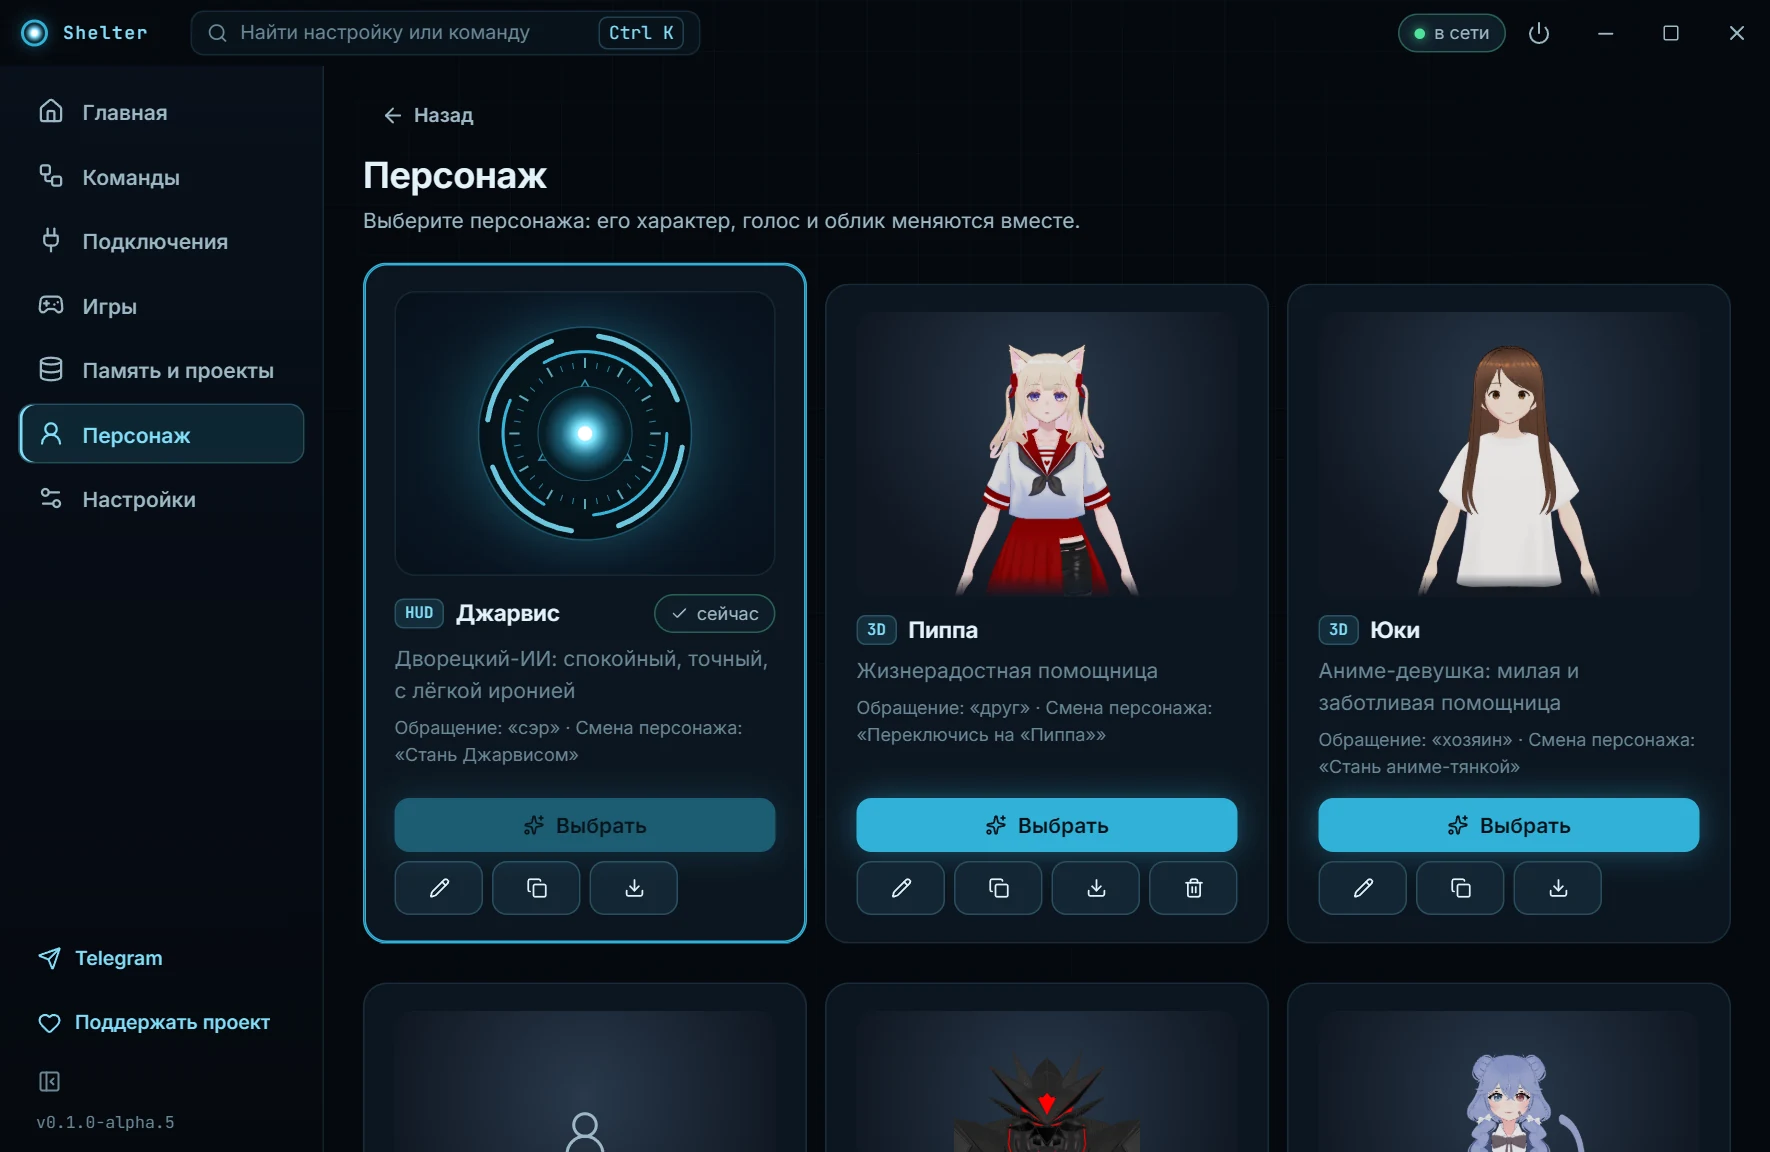
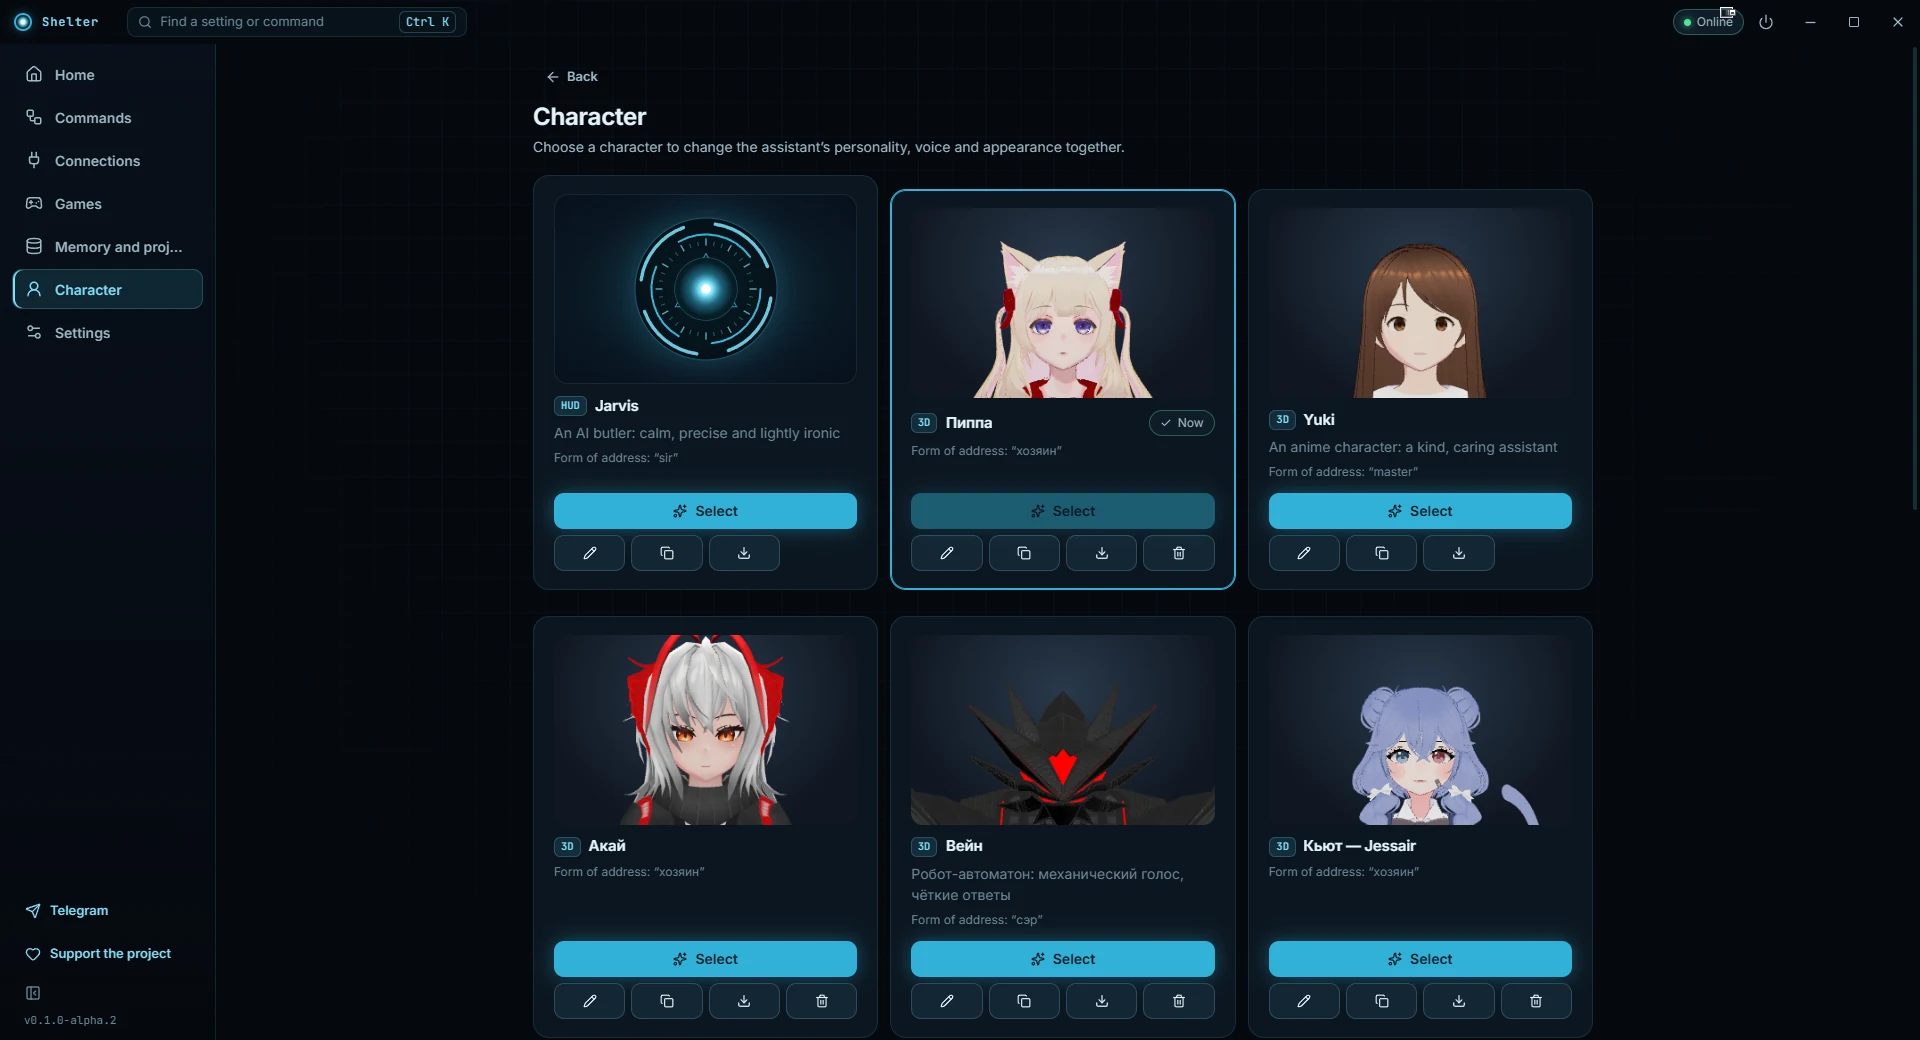
Add direct downloads and complete the character catalog

diff --git a/app/src/components/AvatarPortrait.svelte b/app/src/components/AvatarPortrait.svelte
@@ -32,7 +32,6 @@
 <style>
   .portrait { position: relative; height: 190px; display: grid; place-items: center; overflow: hidden; border-radius: 12px;
     background: radial-gradient(ellipse at 50% 30%, #29394b, #101722 75%); margin-bottom: 6px; }
-  img { width: 100%; height: 100%; min-height: 0; padding: 8px 12px 0; object-fit: contain; object-position: center bottom;
-    mask-image: linear-gradient(to bottom, #000 92%, transparent 100%); }
+  img { position: absolute; inset: 0; width: 100%; height: 100%; object-fit: cover; object-position: center top; }
   .placeholder { display: grid; justify-items: center; gap: 8px; padding: 12px; color: var(--text-2); text-align: center; font-size: 12px; }
 </style>

diff --git a/app/src/lib/version.ts b/app/src/lib/version.ts
@@ -1,1 +1,1 @@
-export const APP_VERSION = "0.1.0-alpha.5";
+export const APP_VERSION = "0.1.0-alpha.6";

diff --git a/tests/test_public_export.py b/tests/test_public_export.py
@@ -55,6 +55,17 @@ class PublicExport(unittest.TestCase):
                              {target / "personas" / persona_id / "appearance.vrm" for persona_id in module.PUBLIC_MODELS})
             self.assertTrue((target / "personas/jarvis/voice.wav").is_file())
             self.assertFalse(any((target / "personas").rglob("*.safetensors")))
+            bundle = json.loads((target / "app/src-tauri/tauri.conf.json").read_text(encoding="utf-8"))
+            resources = set(bundle["bundle"]["resources"].values())
+            for persona_id in (item for item in module.PUBLIC_PRESETS if item != "jarvis"):
+                with self.subTest(portrait=persona_id):
+                    folder = target / "personas" / persona_id
+                    profile = json.loads((folder / "persona.json").read_text(encoding="utf-8"))
+                    self.assertEqual(profile["avatar"]["preview"], "preview.png")
+                    self.assertGreater((folder / "preview.png").stat().st_size, 0)
+                    self.assertIn(f"core/personas/{persona_id}/preview.png", resources)
+            for name in ("windows", "linux", "android", "android-local"):
+                self.assertTrue((target / "docs/media" / f"download-{name}.png").is_file())
             for preset in (target / "personas").glob("*/persona.json"):
                 voice = json.loads(preset.read_text(encoding="utf8")).get("voice", {})
                 self.assertEqual(voice.get("reference"), "voice.wav" if preset.parent.name == "anime" else None)

diff --git a/tools/export_public.py b/tools/export_public.py
@@ -15,7 +15,8 @@ DOC_LOCALES = ("ru", "ja", "zh-CN")
 TRANSLATED_DOCS = ("README.md", "GUIDE.md", "CONTRIBUTING.md", "SECURITY.md", "THIRD_PARTY.md")
 ROOT_FILES = {"README.md","LICENSE","SECURITY.md","CONTRIBUTING.md","THIRD_PARTY.md",".gitignore","config.public.yaml","requirements.txt","requirements-lock.windows.txt","requirements-optional.txt","requirements-tts.txt","app_version.py","main.py","setup_tool.py"}
 DOC_MEDIA = ("shelter-cover-characters.webp", "shelter-desktop.webp", "shelter-personas.webp",
-             "shelter-personas-more.webp", "shelter-android.webp")
+             "shelter-personas-ru.webp", "shelter-personas-more.webp", "shelter-personas-more-ru.webp", "shelter-android.webp",
+             "download-windows.png", "download-linux.png", "download-android.png", "download-android-local.png")
 PUBLIC_PRESETS = ("jarvis", "pippa", "anime", "akai", "vain", "manju", "tsukuyomi", "cute", "yamaneko", "miku")
 # Original synthetic VoiceDesign sample documented in docs/HANDOFF-personas.md.
[1 lines of base64/hex data omitted]

diff --git a/shelter_core/import_avatars.py b/shelter_core/import_avatars.py
@@ -174,8 +174,10 @@ def attach_builtin(persona_id, filename):
         avatar.update(type="vrm", model=str(model))
         with model.open("rb") as file:
             original = hashlib.file_digest(file, "sha256").hexdigest().startswith(profile["id"][9:])
-        if not original or not avatar.get("preview"):
+        if not original:
             avatar.pop("preview", None)
+            avatar.pop("preview_kind", None)
+        if avatar.get("preview_kind") == "illustration" or not avatar.get("preview"):
             portrait = Path(work) / "preview.png"
             try:
                 _thumbnail(model, portrait)
@@ -183,6 +185,7 @@ def attach_builtin(persona_id, filename):
                 pass  # Thumbnail metadata is optional.
             if portrait.is_file():
                 avatar["preview"] = str(portrait)
+                avatar.pop("preview_kind", None)
         with personas._storage_lock:
             return personas.get(profile["id"]) or personas.save(profile)
 

diff --git a/app_version.py b/app_version.py
@@ -1,2 +1,2 @@
 """Product version; independent of scenario/plugin protocol versions."""
-VERSION = "0.1.0-alpha.5"
+VERSION = "0.1.0-alpha.6"

diff --git a/docs/ru/README.md b/docs/ru/README.md
@@ -4,9 +4,18 @@
 
 ![Обложка Shelter с главным окном, Пиппой, Юки, Джарвисом и Мандзю](../media/shelter-cover-characters.webp)
 
+<p align="center">
+  <a href="https://github.com/IT-Shelter-Labs/shelter/releases/download/v0.1.0-alpha.6/Shelter-0.1.0-alpha.6-windows-x64-setup.exe"><img src="../media/download-windows.png" width="190" height="58" alt="Скачать Windows 10/11 x64"></a>
+  <a href="https://github.com/IT-Shelter-Labs/shelter/releases/download/v0.1.0-alpha.6/Shelter-0.1.0-alpha.6-linux-x86_64.tar.gz"><img src="../media/download-linux.png" width="190" height="58" alt="Скачать Linux x86_64"></a>
+  <a href="https://github.com/IT-Shelter-Labs/shelter/releases/download/v0.1.0-alpha.3/Shelter-0.1.0-alpha.3-android-companion-test.apk"><img src="../media/download-android.png" width="190" height="58" alt="Скачать Android Companion APK"></a>
+  <a href="https://github.com/IT-Shelter-Labs/shelter/releases/download/v0.1.0-alpha.3/Shelter-0.1.0-alpha.3-android-local-test.apk"><img src="../media/download-android-local.png" width="190" height="58" alt="Скачать Android Local APK"></a>
+</p>
+
+[Архив игровых модов](https://github.com/IT-Shelter-Labs/shelter/releases/download/v0.1.0-alpha.3/Shelter-0.1.0-alpha.3-game-mods.zip) · [Веса голоса Джарвиса v4](https://github.com/IT-Shelter-Labs/shelter/releases/download/v0.1.0-alpha.5/Shelter-Jarvis-voice-v4.safetensors) · [Все выпуски](https://github.com/IT-Shelter-Labs/shelter/releases)
+
 Голосовой ассистент с открытым исходным кодом для Windows, Linux и Android. Открывайте приложения, управляйте музыкой, ставьте напоминания, запускайте сценарии и разговаривайте с выбранной моделью. На ПК можно произнести по-русски имя выбранного персонажа или нажать «Говорить».
 
-[Скачать](https://github.com/IT-Shelter-Labs/shelter/releases) · [Руководство](GUIDE.md) · [Персонажи](#персонажи) · [Telegram IT Shelter](https://t.me/+tqB8b6h4JbYwZWVi) · [Поддержать проект](https://t.me/itshelter_bot?start=donate)
+[Руководство](GUIDE.md) · [Персонажи](#персонажи) · [Telegram IT Shelter](https://t.me/+tqB8b6h4JbYwZWVi) · [Поддержать проект](https://t.me/itshelter_bot?start=donate)
 
 ## Установка
 
@@ -39,9 +48,11 @@
 
 В настольном Shelter десять пресетов. При первом запуске активен **Джарвис**. Доступны также Пиппа, Юки, Акай, Вейн, Мандзю, Цукуёми, Кьют, Яманэко и Мику. Пресеты меняют имя вызова, голос и характер. Выбор сохраняется после обновления.
 
-![Каталог Shelter: первыми идут Джарвис, Пиппа и Юки](../media/shelter-personas.webp)
+![Каталог Shelter: первыми идут Джарвис, Пиппа и Юки](../media/shelter-personas-ru.webp)
 
-![Другие персонажи Shelter и их портреты](../media/shelter-personas-more.webp)
+![Другие персонажи Shelter и их портреты](../media/shelter-personas-more-ru.webp)
+
+На первом скриншоте показана локальная установка с подключёнными 3D-обликами. У каждого встроенного персонажа есть портрет или реактор Джарвиса.
 
 3D-облики Юки, Вейна, Мандзю и Цукуёми входят в комплект. Оригинальный облик Пиппы можно скачать у автора и подключить с её карточки. На совместимой видеокарте NVIDIA установка фирменного голоса скачивает обученный профиль Джарвиса v4 и использует встроенный образец голоса Юки и Пиппы. [Настройка персонажей](GUIDE.md) · [Авторы и лицензии](THIRD_PARTY.md)
 

diff --git a/docs/ja/README.md b/docs/ja/README.md
@@ -4,9 +4,18 @@
 
 ![デスクトップ画面とピッパ、ユキ、ジャーヴィス、マンジュを描いた Shelter のカバー](../media/shelter-cover-characters.webp)
 
+<p align="center">
+  <a href="https://github.com/IT-Shelter-Labs/shelter/releases/download/v0.1.0-alpha.6/Shelter-0.1.0-alpha.6-windows-x64-setup.exe"><img src="../media/download-windows.png" width="190" height="58" alt="Windows 10/11 x64 をダウンロード"></a>
+  <a href="https://github.com/IT-Shelter-Labs/shelter/releases/download/v0.1.0-alpha.6/Shelter-0.1.0-alpha.6-linux-x86_64.tar.gz"><img src="../media/download-linux.png" width="190" height="58" alt="Linux x86_64 をダウンロード"></a>
+  <a href="https://github.com/IT-Shelter-Labs/shelter/releases/download/v0.1.0-alpha.3/Shelter-0.1.0-alpha.3-android-companion-test.apk"><img src="../media/download-android.png" width="190" height="58" alt="Android Companion APK をダウンロード"></a>
+  <a href="https://github.com/IT-Shelter-Labs/shelter/releases/download/v0.1.0-alpha.3/Shelter-0.1.0-alpha.3-android-local-test.apk"><img src="../media/download-android-local.png" width="190" height="58" alt="Android Local APK をダウンロード"></a>
+</p>
+
+[ゲーム用 MOD の ZIP](https://github.com/IT-Shelter-Labs/shelter/releases/download/v0.1.0-alpha.3/Shelter-0.1.0-alpha.3-game-mods.zip) · [ジャーヴィス v4 の音声モデル](https://github.com/IT-Shelter-Labs/shelter/releases/download/v0.1.0-alpha.5/Shelter-Jarvis-voice-v4.safetensors) · [すべてのリリース](https://github.com/IT-Shelter-Labs/shelter/releases)
+
 Shelter は Windows、Linux、Android 向けのオープンソース音声アシスタントです。アプリの起動、音楽の操作、リマインダーの設定、ワークフローの実行、ローカルモデルやクラウドモデルとの会話ができます。デスクトップでは、選択中のキャラクターの呼びかけ名をロシア語で発音するか、**Speak**（話す）を押します。
 
-[ダウンロード](https://github.com/IT-Shelter-Labs/shelter/releases) · [利用・開発ガイド](GUIDE.md) · [IT Shelter の Telegram](https://t.me/+tqB8b6h4JbYwZWVi) · [プロジェクトを支援](https://t.me/itshelter_bot?start=donate)
+[利用・開発ガイド](GUIDE.md) · [IT Shelter の Telegram](https://t.me/+tqB8b6h4JbYwZWVi) · [プロジェクトを支援](https://t.me/itshelter_bot?start=donate)
 
 ## インストール
 
@@ -38,6 +47,8 @@ Shelter は Windows、Linux、Android 向けのオープンソース音声アシ
 ![ジャーヴィス、ピッパ、ユキが先頭に並ぶ Shelter のキャラクター一覧](../media/shelter-personas.webp)
 
 ![キャラクターカードとアバターのプレビュー](../media/shelter-personas-more.webp)
+
+最初の画像は追加の 3D モデルを設定したローカル環境です。すべてのデスクトップ用プリセットにポートレート、またはジャーヴィスのリアクターが付属します。
 
 ユキ、ヴェイン、マンジュ、つくよみちゃんの 3D モデルは同梱されています。ピッパのオリジナルモデルは作者からダウンロードし、カードから追加できます。対応する NVIDIA GPU では、キャラクターボイスのセットアップで学習済みのジャーヴィス v4 を取得し、ユキとピッパには同梱の音声サンプルを使用します。[キャラクターの設定](GUIDE.md) · [素材クレジット](THIRD_PARTY.md)
 

diff --git a/README.md b/README.md
@@ -4,9 +4,18 @@
 
 ![Shelter with its desktop interface, Pippa, Yuki, Jarvis, and Manju](docs/media/shelter-cover-characters.webp)
 
+<p align="center">
+  <a href="https://github.com/IT-Shelter-Labs/shelter/releases/download/v0.1.0-alpha.6/Shelter-0.1.0-alpha.6-windows-x64-setup.exe"><img src="docs/media/download-windows.png" width="190" height="58" alt="Download Windows 10/11 x64"></a>
+  <a href="https://github.com/IT-Shelter-Labs/shelter/releases/download/v0.1.0-alpha.6/Shelter-0.1.0-alpha.6-linux-x86_64.tar.gz"><img src="docs/media/download-linux.png" width="190" height="58" alt="Download Linux x86_64"></a>
+  <a href="https://github.com/IT-Shelter-Labs/shelter/releases/download/v0.1.0-alpha.3/Shelter-0.1.0-alpha.3-android-companion-test.apk"><img src="docs/media/download-android.png" width="190" height="58" alt="Download Android Companion APK"></a>
+  <a href="https://github.com/IT-Shelter-Labs/shelter/releases/download/v0.1.0-alpha.3/Shelter-0.1.0-alpha.3-android-local-test.apk"><img src="docs/media/download-android-local.png" width="190" height="58" alt="Download Android Local APK"></a>
+</p>
+
+[Game mods ZIP](https://github.com/IT-Shelter-Labs/shelter/releases/download/v0.1.0-alpha.3/Shelter-0.1.0-alpha.3-game-mods.zip) · [Jarvis v4 voice weights](https://github.com/IT-Shelter-Labs/shelter/releases/download/v0.1.0-alpha.5/Shelter-Jarvis-voice-v4.safetensors) · [All releases](https://github.com/IT-Shelter-Labs/shelter/releases)
+
 Shelter is an open-source voice assistant for Windows, Linux, and Android. Open apps, control music, set reminders, run workflows, or chat with a local or cloud model. On desktop, say the active character’s wake word in Russian or click **Speak**.
 
-[Downloads](https://github.com/IT-Shelter-Labs/shelter/releases) · [Documentation](docs/README.md) · [IT Shelter on Telegram](https://t.me/+tqB8b6h4JbYwZWVi) · [Support the project](https://t.me/itshelter_bot?start=donate)
+[Documentation](docs/README.md) · [IT Shelter on Telegram](https://t.me/+tqB8b6h4JbYwZWVi) · [Support the project](https://t.me/itshelter_bot?start=donate)
 
 ## Install
 
@@ -38,6 +47,8 @@ The desktop app has ten character presets. **Jarvis** is selected on first launc
 ![Shelter character catalog with Jarvis first, followed by Pippa and Yuki](docs/media/shelter-personas.webp)
 
 ![More character cards and their avatar previews](docs/media/shelter-personas-more.webp)
+
+The first screenshot shows a local installation with optional 3D appearances connected. Every desktop preset includes a catalog portrait or the Jarvis reactor.
 
 Shelter includes 3D appearances for Yuki, Vain, Manju, and Tsukuyomi. To use Pippa’s original appearance, download the creator’s archive and attach it from her card. On a compatible NVIDIA GPU, the character voice setup downloads the trained Jarvis v4 profile and uses the bundled voice sample for Yuki and Pippa. See the [character guide](docs/GUIDE.md) and [asset credits](THIRD_PARTY.md).
 

diff --git a/THIRD_PARTY.md b/THIRD_PARTY.md
@@ -15,6 +15,8 @@
 - Yuki’s portrait and the README cover reference **VRM1_Constraint_Twist_Sample** © 2022 pixiv Inc. The terms are set in the model metadata and the [VRM Public License 1.0](https://vrm.dev/licenses/1.0/).
 - Pippa’s portrait and the README cover reference **Pippa** © loulou_yurika (ねこのゆりか), a publicly available model. The creator distributes the 3D file. [Model and terms](https://booth.pm/ja/items/4613310)
 - Cute’s portrait depicts **Cute Model** © Jessair. [Model and terms](https://booth.pm/ja/items/7100270)
+- Akai’s catalog portrait depicts **Akai** © Shugan. The VRM comes from the creator. [Model and terms](https://booth.pm/ja/items/3752943)
+- The project maintainer supplied the catalog illustrations for Miku and Yamaneko. Their optional third-party VRM files have their own terms. [Misfitworks](https://booth.pm/en/items/6290737) · [yamaron](https://booth.pm/en/items/5305879)
 - **Tsukuyomi-chan, Type A** © Rei Yumesaki is a free character asset included with Shelter. Dialogue generated by Shelter is unofficial. Credit Shelter and Tsukuyomi-chan when sharing screenshots or videos containing her and follow the creator’s terms. [Model and terms](https://tyc.rei-yumesaki.net/material/avatar/3d-a/)
 - **MP-Vain** © Vain is included under the creator’s redistribution terms. [Original terms](personas/vain/LICENSE.txt) · [Creator’s page](https://booth.pm/ja/items/4415725)
 - Manju’s included VRM and the README cover reference **MeowManju** © MinaraiNyanko. The creator allows modification, redistribution, and commercial use and excludes political use. [Model and terms](https://booth.pm/ko/items/6405885)
